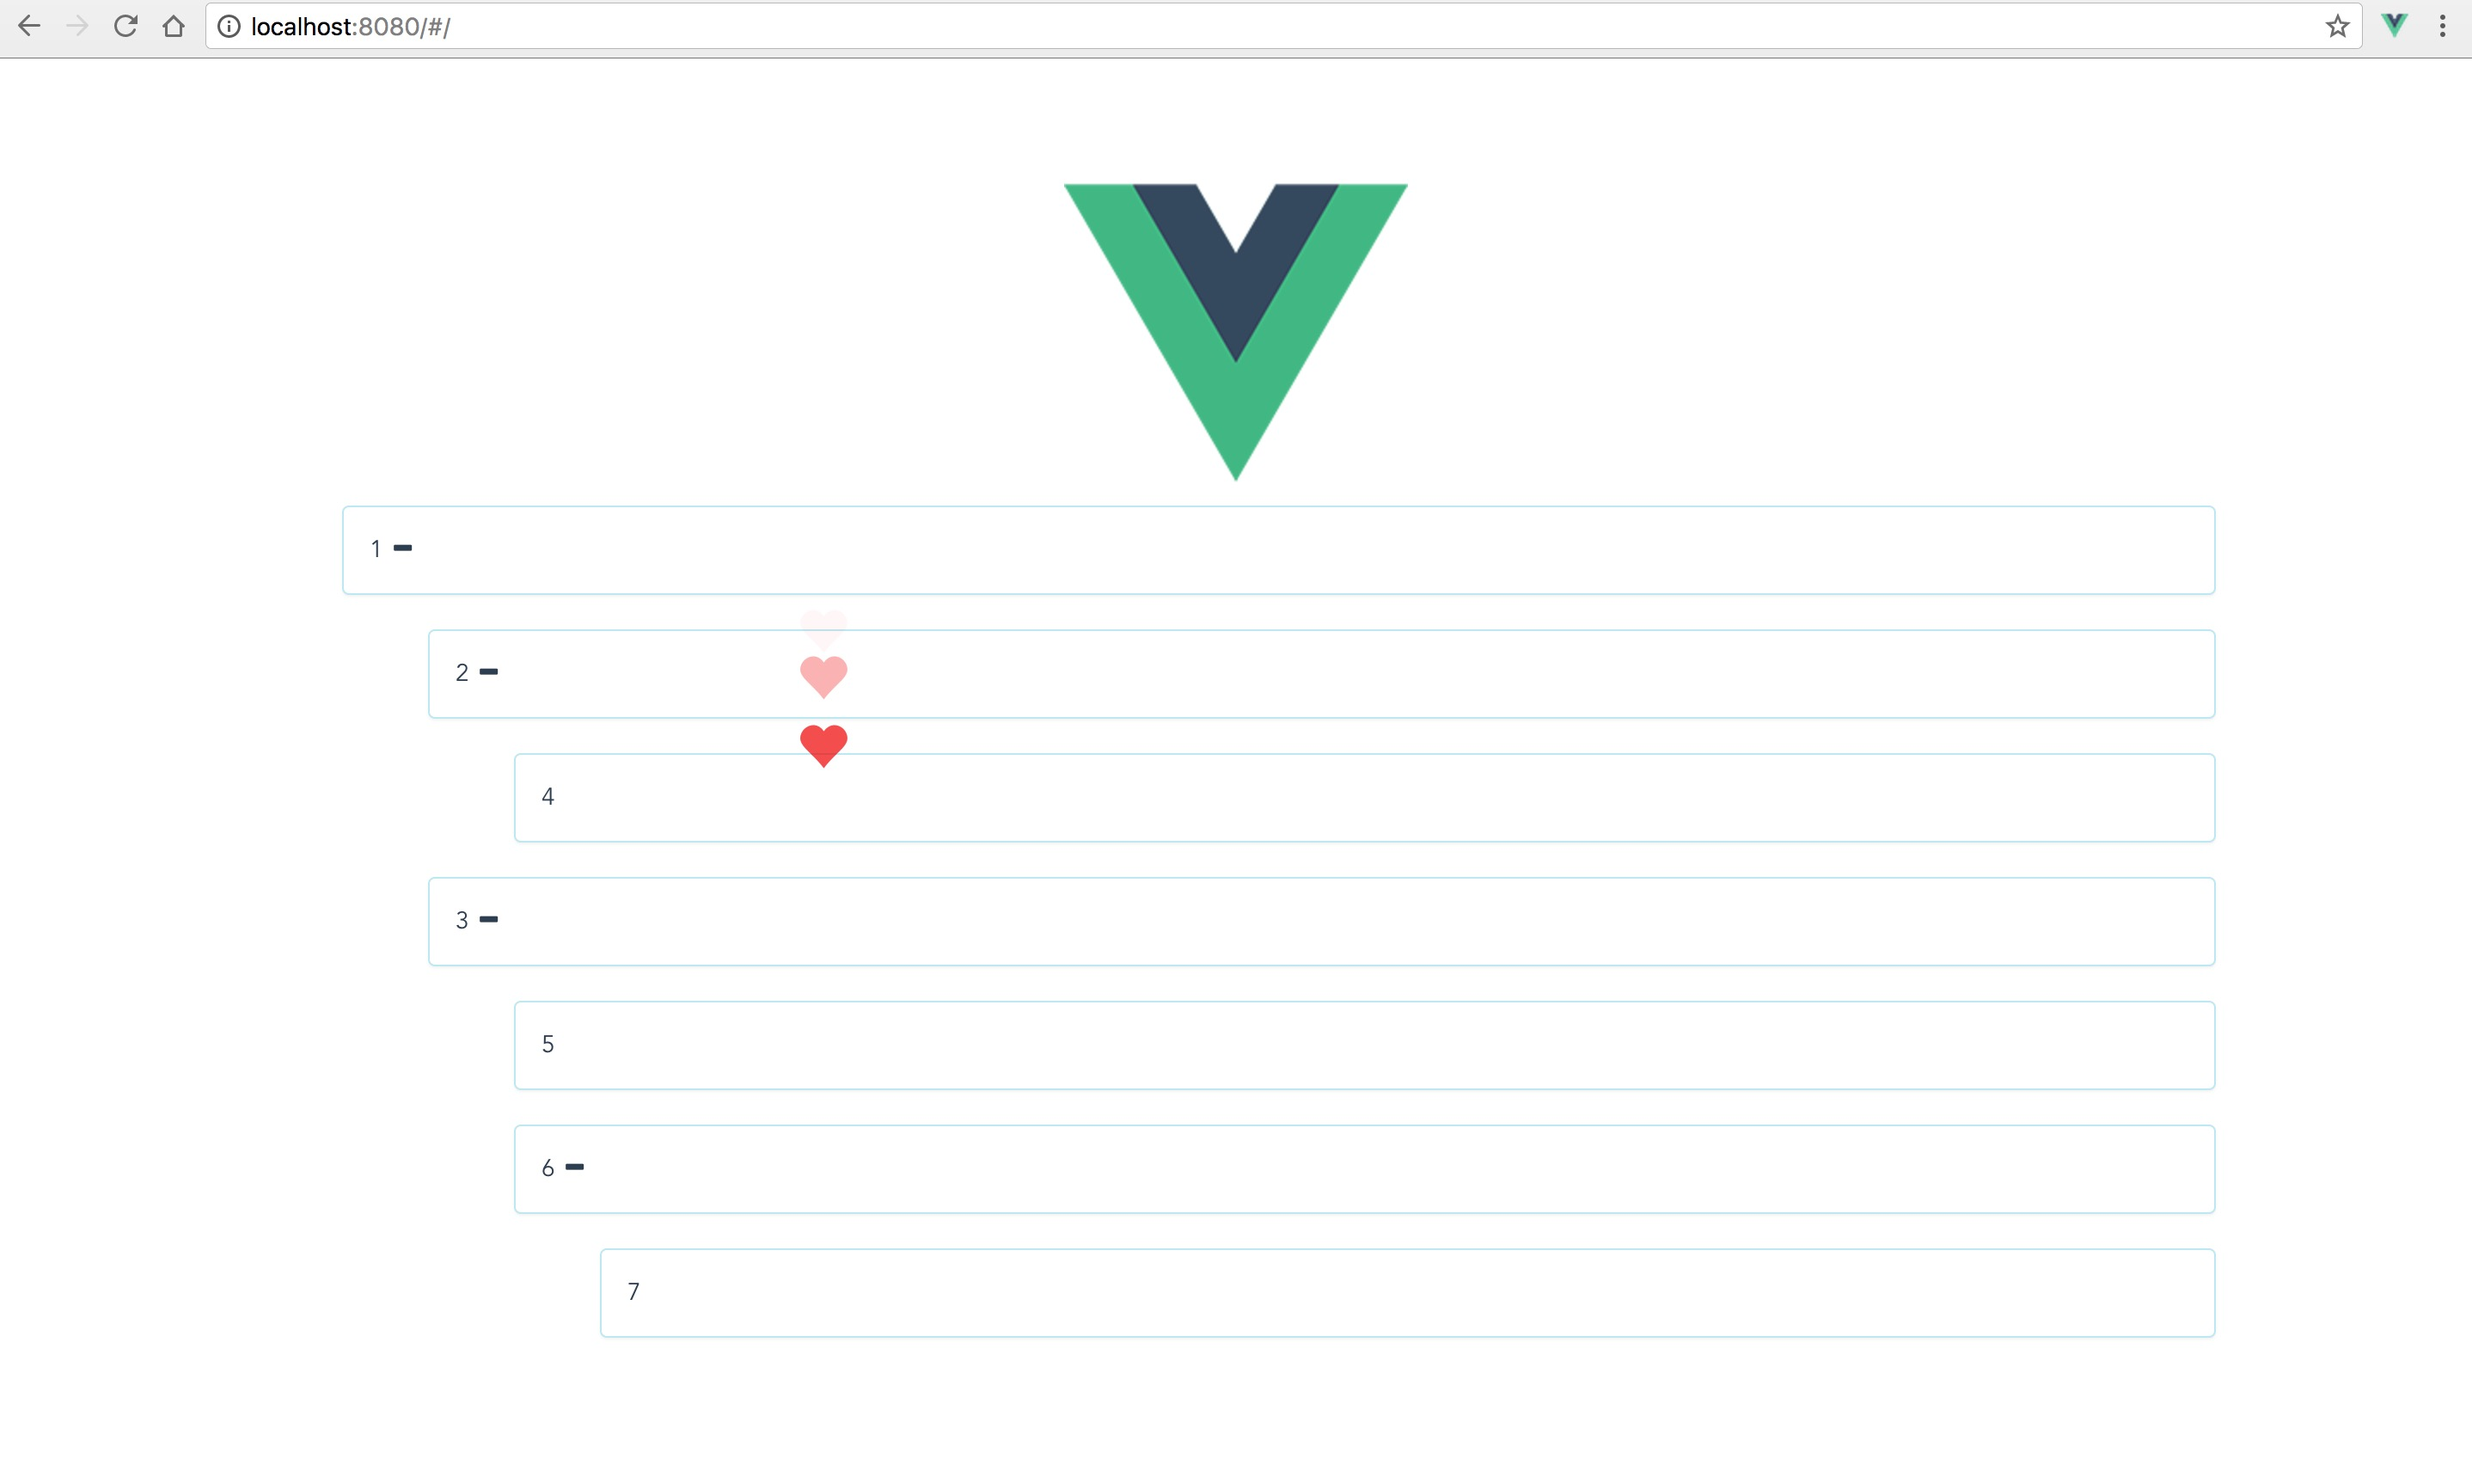
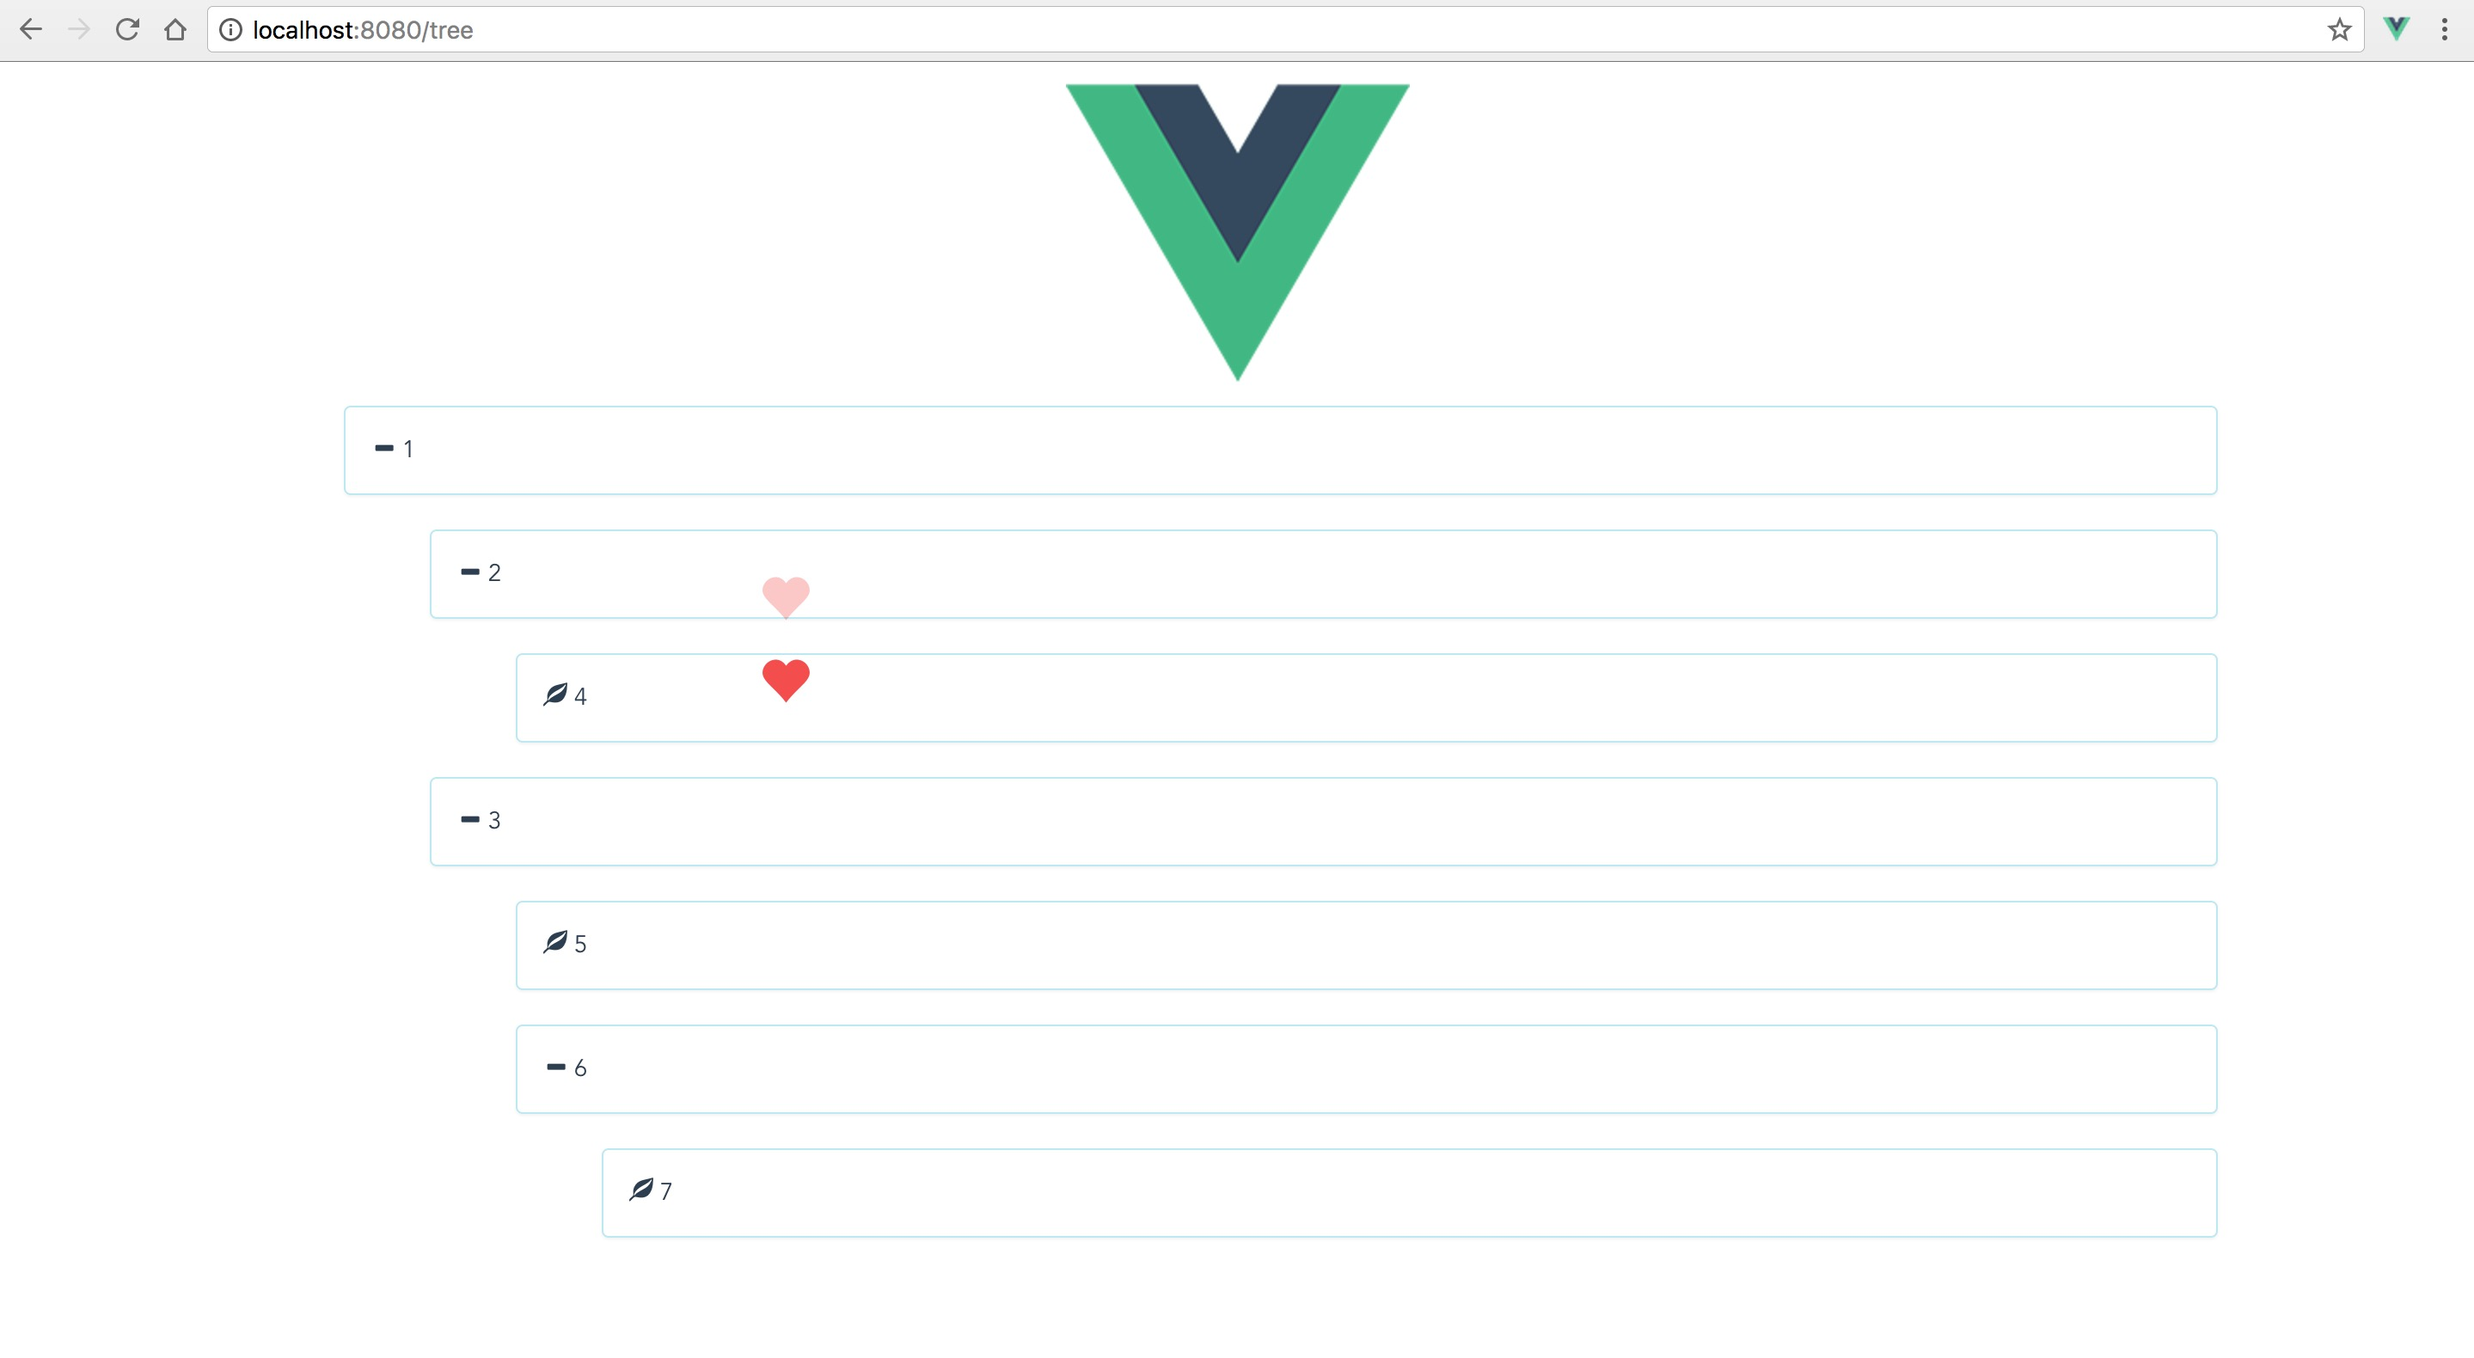
添加leaf 图标

diff --git a/src/components/Tree.vue b/src/components/Tree.vue
@@ -4,8 +4,9 @@
 			<div class="panel panel-info">
 			  <div class="panel-body">
 			  	<div>
+			  		<span v-if="member.children.length > 0" class="glyphicon" v-bind:class="[member.expanded ? 'glyphicon-minus':'glyphicon-plus']"></span>
+					<span v-else class="glyphicon glyphicon-leaf"></span>
 			  		<span>{{member.name}}</span>
-					<span v-if="member.children.length > 0" class="glyphicon" v-bind:class="[member.expanded ? 'glyphicon-minus':'glyphicon-plus']"></span>
 			  	</div>
 			  </div>
 			</div>
